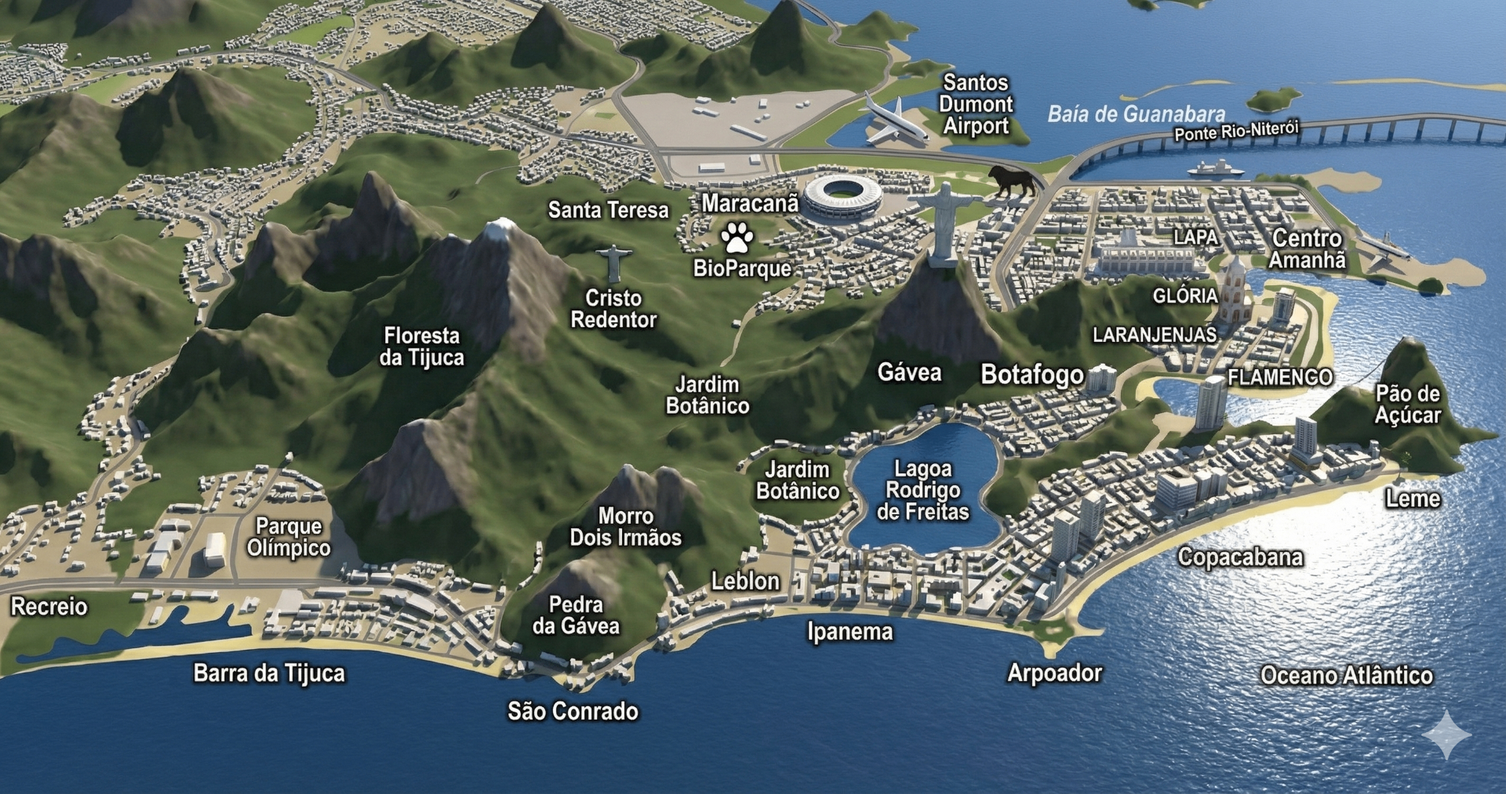
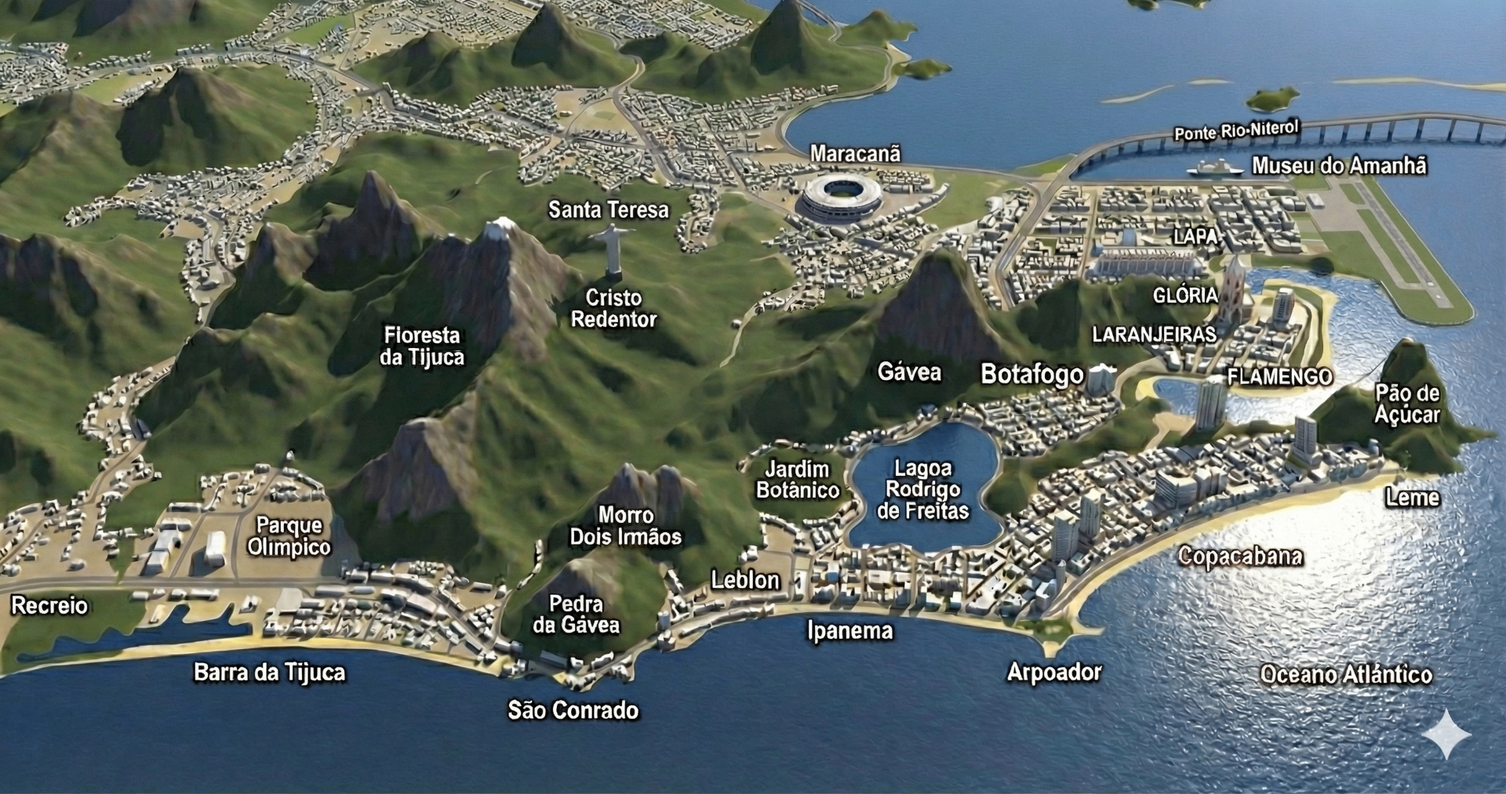
Changes

diff --git a/src/pages/CityView.tsx b/src/pages/CityView.tsx
@@ -1,4 +1,4 @@
-import { useState } from "react";
+import { useState, useRef, useEffect } from "react";
 import { Link } from "react-router-dom";
 import { ChevronLeft } from "lucide-react";
 import { RIO_NEIGHBORHOODS } from "@/data/rio-neighborhoods";
@@ -22,6 +22,56 @@ const CityView = () => {
     setPreviewOpen(true);
   };
 
+  const mapContainerRef = useRef<HTMLDivElement>(null);
+  const mapContentRef = useRef<HTMLDivElement>(null);
+  const [isDragging, setIsDragging] = useState(false);
+  const [startX, setStartX] = useState(0);
+  const [scrollLeft, setScrollLeft] = useState(0);
+
+  // Center on main area (Copacabana/Ipanema/Botafogo) on mount
+  useEffect(() => {
+    if (mapContainerRef.current && mapContentRef.current) {
+      const container = mapContainerRef.current;
+      const content = mapContentRef.current;
+      // Center the scroll position (main city area is roughly in the center-right)
+      const scrollCenter = (content.scrollWidth - container.clientWidth) * 0.55;
+      container.scrollLeft = scrollCenter;
+    }
+  }, []);
+
+  const handleMouseDown = (e: React.MouseEvent) => {
+    if (!mapContainerRef.current) return;
+    setIsDragging(true);
+    setStartX(e.pageX - mapContainerRef.current.offsetLeft);
+    setScrollLeft(mapContainerRef.current.scrollLeft);
+  };
+
+  const handleMouseMove = (e: React.MouseEvent) => {
+    if (!isDragging || !mapContainerRef.current) return;
+    e.preventDefault();
+    const x = e.pageX - mapContainerRef.current.offsetLeft;
+    const walk = (x - startX) * 1.2;
+    mapContainerRef.current.scrollLeft = scrollLeft - walk;
+  };
+
+  const handleMouseUp = () => {
+    setIsDragging(false);
+  };
+
+  const handleTouchStart = (e: React.TouchEvent) => {
+    if (!mapContainerRef.current) return;
+    setIsDragging(true);
+    setStartX(e.touches[0].pageX - mapContainerRef.current.offsetLeft);
+    setScrollLeft(mapContainerRef.current.scrollLeft);
+  };
+
+  const handleTouchMove = (e: React.TouchEvent) => {
+    if (!isDragging || !mapContainerRef.current) return;
+    const x = e.touches[0].pageX - mapContainerRef.current.offsetLeft;
+    const walk = (x - startX) * 1.2;
+    mapContainerRef.current.scrollLeft = scrollLeft - walk;
+  };
+
   return (
     <div className="min-h-screen bg-background">
       {/* Header with Meu Roteiro access */}
@@ -36,39 +86,59 @@ const CityView = () => {
         <RoteiroAccessLink />
       </header>
 
-      {/* Map Area */}
-      <div className="relative w-full aspect-[4/3] bg-muted overflow-hidden">
-        {/* 3D Illustrated Map Background */}
-        <img 
-          src="/assets/maps/rio-3d-map.png" 
-          alt="Rio de Janeiro 3D Map"
-          className="absolute inset-0 w-full h-full object-cover object-center"
-        />
-
-        {/* Tappable neighborhood markers */}
-        {RIO_NEIGHBORHOODS.map((neighborhood) => (
-          <Link
-            key={neighborhood.id}
-            to={`/onde-ficar/${neighborhood.id}?from=map`}
-            className="absolute w-10 h-10 -ml-5 -mt-5 rounded-full bg-foreground/10 border border-foreground/20 hover:bg-foreground/20 hover:border-foreground/40 transition-colors flex items-center justify-center"
-            style={{ top: neighborhood.mapPosition.top, left: neighborhood.mapPosition.left }}
-            aria-label={`Explorar ${neighborhood.name}`}
-          >
-            <div className="w-2 h-2 rounded-full bg-foreground/60" />
-          </Link>
-        ))}
-
-        {/* Lucky List markers */}
-        {luckyListMarkers.map((marker) => (
-          <LuckyListMarker
-            key={marker.id}
-            id={marker.id}
-            top={marker.top}
-            left={marker.left}
-            isSubscriber={isSubscriber}
-            onLockedTap={handleLockedTap}
+      {/* Map Area - Horizontal pan only */}
+      <div 
+        ref={mapContainerRef}
+        className="relative w-full h-[65vh] overflow-x-auto overflow-y-hidden scrollbar-hide cursor-grab active:cursor-grabbing"
+        onMouseDown={handleMouseDown}
+        onMouseMove={handleMouseMove}
+        onMouseUp={handleMouseUp}
+        onMouseLeave={handleMouseUp}
+        onTouchStart={handleTouchStart}
+        onTouchMove={handleTouchMove}
+        onTouchEnd={handleMouseUp}
+        style={{ scrollbarWidth: 'none', msOverflowStyle: 'none' }}
+      >
+        {/* Map content wrapper - natural width, not fitted */}
+        <div 
+          ref={mapContentRef}
+          className="relative h-full"
+          style={{ width: '180vw', minWidth: '180vw' }}
+        >
+          {/* 3D Illustrated Map Background */}
+          <img 
+            src="/assets/maps/rio-3d-map.png" 
+            alt="Rio de Janeiro 3D Map"
+            className="h-full w-full object-cover object-center pointer-events-none select-none"
+            draggable={false}
           />
-        ))}
+
+          {/* Tappable neighborhood markers */}
+          {RIO_NEIGHBORHOODS.map((neighborhood) => (
+            <Link
+              key={neighborhood.id}
+              to={`/onde-ficar/${neighborhood.id}?from=map`}
+              className="absolute w-10 h-10 -ml-5 -mt-5 rounded-full bg-foreground/10 border border-foreground/20 hover:bg-foreground/20 hover:border-foreground/40 transition-colors flex items-center justify-center"
+              style={{ top: neighborhood.mapPosition.top, left: neighborhood.mapPosition.left }}
+              aria-label={`Explorar ${neighborhood.name}`}
+              onClick={(e) => e.stopPropagation()}
+            >
+              <div className="w-2 h-2 rounded-full bg-foreground/60" />
+            </Link>
+          ))}
+
+          {/* Lucky List markers */}
+          {luckyListMarkers.map((marker) => (
+            <LuckyListMarker
+              key={marker.id}
+              id={marker.id}
+              top={marker.top}
+              left={marker.left}
+              isSubscriber={isSubscriber}
+              onLockedTap={handleLockedTap}
+            />
+          ))}
+        </div>
       </div>
 
       {/* Instruction */}
